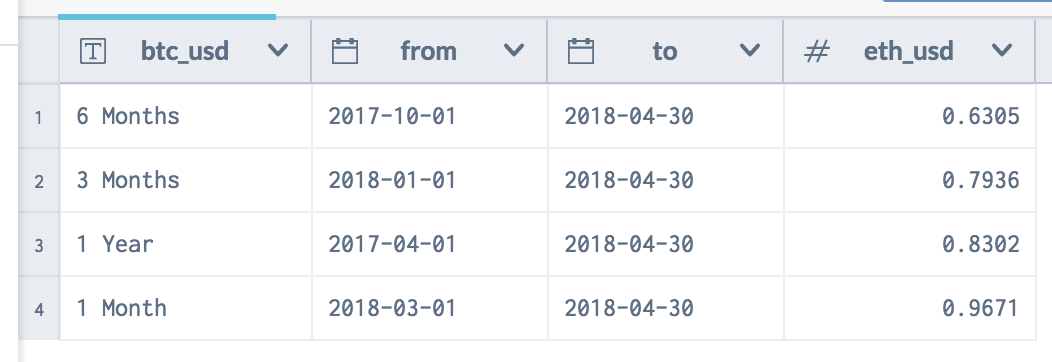
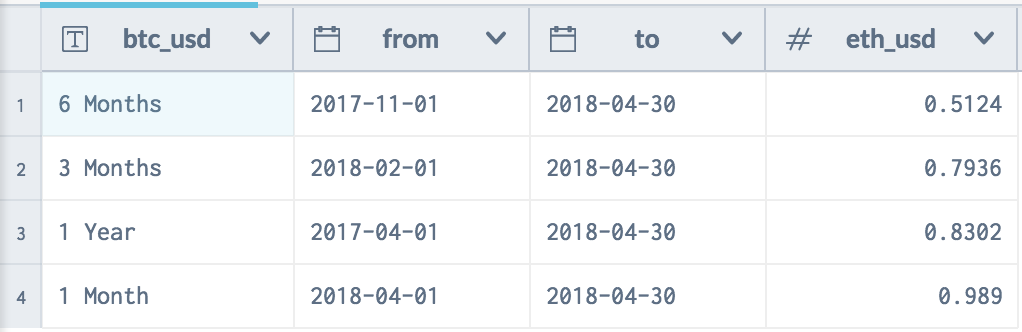
Fix some bugs

diff --git a/scripts/pipeline.js b/scripts/pipeline.js
@@ -23,17 +23,17 @@ const endDate = moment()
 
 // 6 months ago time
 const time6 = moment()
-    .subtract(7, 'months')
+    .subtract(6, 'months')
     .startOf('month');
 
 // 3 months ago time
 const time3 = moment()
-    .subtract(4, 'months')
+    .subtract(3, 'months')
     .startOf('month');
 
 // 1 month ago time
 const time1 = moment()
-    .subtract(2, 'months')
+    .subtract(1, 'months')
     .startOf('month');
 
 // Find correlations for 4 timeframes: 1 year, 6 months, 3 and 1 month

diff --git a/README.md b/README.md
@@ -6,7 +6,7 @@ The correlation coefficient ranges between -1 and +1. A correlation of +1 implie
 
 ![alt text](https://github.com/converttt/correlations/raw/master/media/screen-1.png 'An example of calculated data')
 
-The upper table above shows that over the month of April (one month) BTC/USD and ETH/USD had a very strong positive correlation of 0.96. This implies that when the BTC/USD rallies, the ETH/USD has also rallied 96% of the time. Over the past six months, the correlation was weaker (0.63), but in the long run (one year) the two currency pairs still have a strong correlation.
+The upper table above shows that over the month of April (one month) BTC/USD and ETH/USD had a very strong positive correlation of 0.99. This implies that when the BTC/USD rallies, the ETH/USD has also rallied 99% of the time. Over the past six months, the correlation was weaker (0.51), but in the long run (one year) the two currency pairs still have a strong correlation.
 
 ## How to calculate correlation
 The correlation algorithm is published on [GeeksForGeeks](https://www.geeksforgeeks.org/program-find-correlation-coefficient/)
